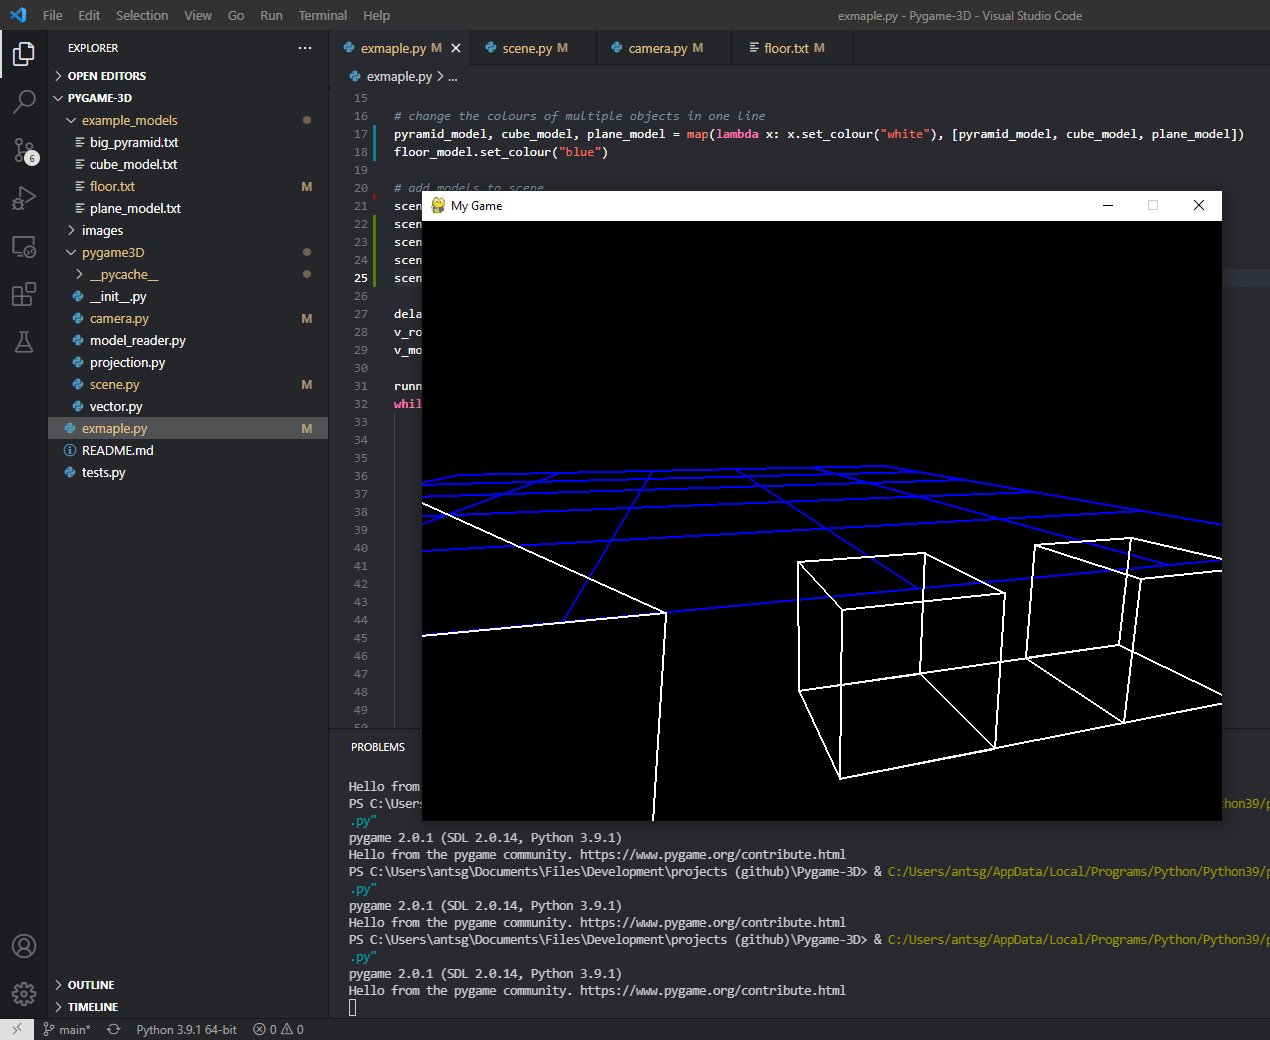
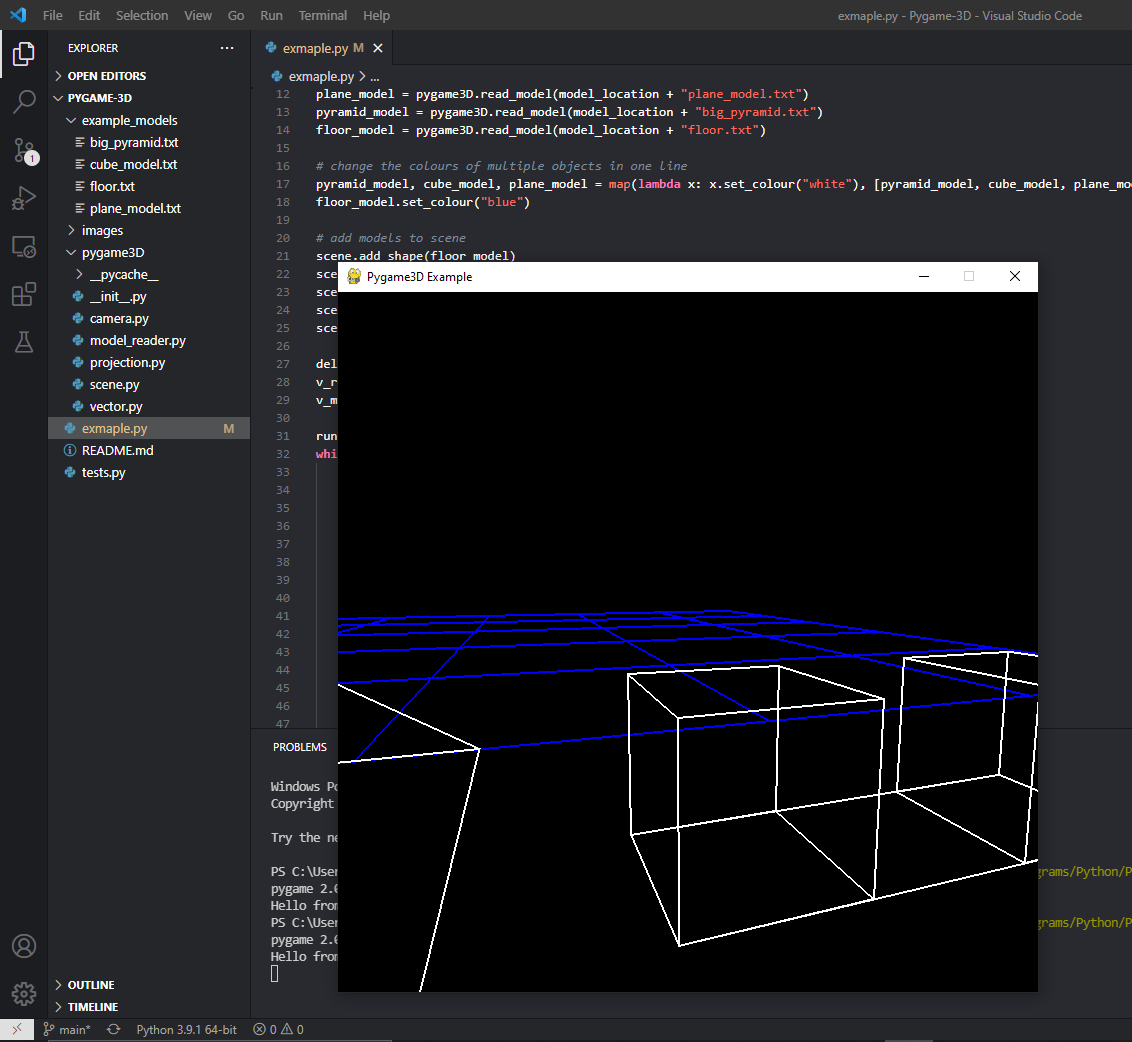
tweaks

diff --git a/exmaple.py b/exmaple.py
@@ -4,7 +4,7 @@ import pygame3D
 
 # initialize pygame3D scene and models
 pygame.init()
-scene = pygame3D.Scene(800, 600) # new scene
+scene = pygame3D.Scene(700, 700, title="Pygame3D Example") # new scene
 
 # 3D models
 model_location = "example_models/"
